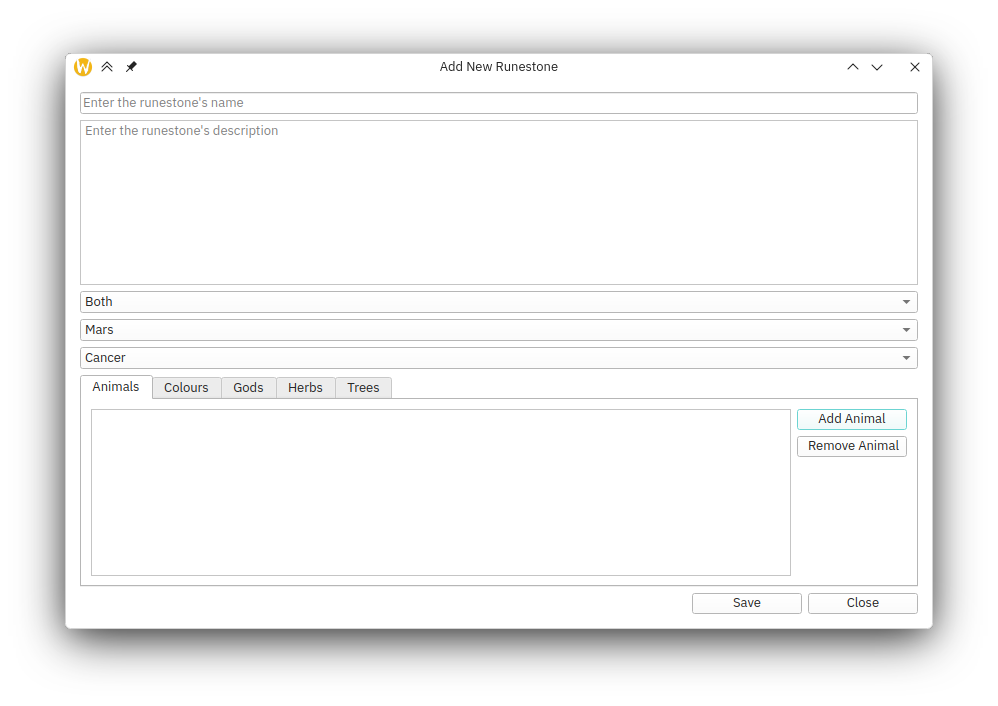
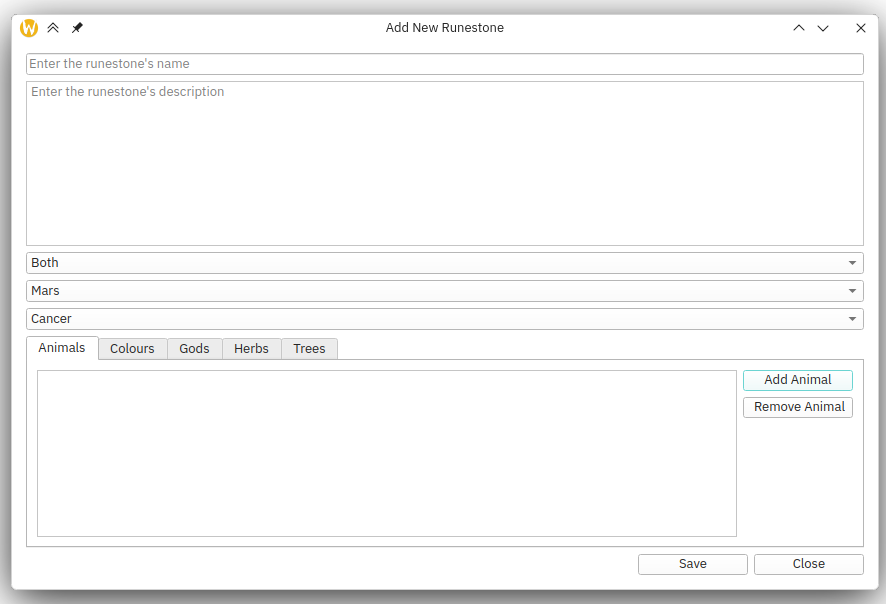
A bit more styling of the documentation
It don't look good, but it looks better!

Changed region(s): [[0.0, 0.0, 1.0, 1.0]]

diff --git a/docs/index.html b/docs/index.html
@@ -10,11 +10,13 @@
 
 		h2, h3 { 
 			display: block;
-			clear:both;
+			clear: both;
 		}
 		img {
 			float: left;
 			margin-right: 1rem;
+			margin-bottom: 5rem;
+			width: 600px;
 		}
 	</style>
 </head>
